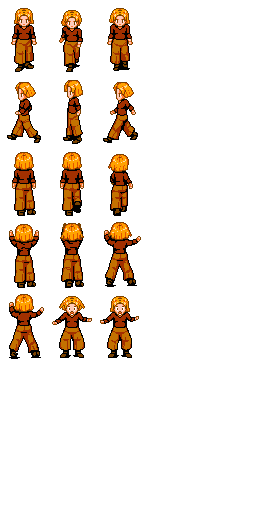
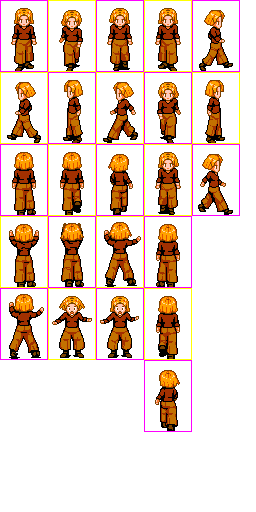
Add guide lines to image to debug math error in texture UV calculation

Changed region(s): [[0.0, 0.0, 0.9375, 0.8438]]

diff --git a/src/scripts/view/standee/standee-sprite-wrapper.ts b/src/scripts/view/standee/standee-sprite-wrapper.ts
@@ -11,7 +11,7 @@ import {
     standeeAnimationTextureBase}
 from './standee-animation-texture-base';
 
-const STANDARD_DELAY = 250; // TODO: Perhaps have some randomness combined with this?
+const STANDARD_DELAY = 200; // TODO: Perhaps have some randomness combined with this?
 
 class StandeeAnimationFrame {
 
@@ -107,7 +107,7 @@ export class StandeeSpriteWrapper {
         this.group.add(this.sprite);
 
         // Initialize default animation to standing facing down:
-        this.currentAnimation = createStandDown();
+        this.currentAnimation = createWalkLeft();
     }
 
     start() {
@@ -126,7 +126,6 @@ export class StandeeSpriteWrapper {
         let frame = this.currentAnimation.getCurrentFrame();
 
         // Convert frame coordinates to texture coordinates and set the current one
-        // TODO: Use flipped flag
         let xpct = (frame.col * FRAME_WIDTH) / SPRITESHEET_WIDTH;
         let ypct = (((Math.floor(SPRITESHEET_HEIGHT / FRAME_HEIGHT)) - 1 - frame.row) * FRAME_HEIGHT) / SPRITESHEET_HEIGHT;
         this.textureWrapper.texture.offset.set(xpct, ypct);
@@ -188,9 +187,9 @@ function createStandUp(): StandeeAnimation {
 let walkUpFrame1        = new StandeeAnimationFrame(2, 0);
 let walkUpFrame2        = new StandeeAnimationFrame(2, 1);
 let walkUpFrame3        = new StandeeAnimationFrame(2, 2);
-let walkUpFrame4        = new StandeeAnimationFrame(2, 0, true);
-let walkUpFrame5        = new StandeeAnimationFrame(2, 1, true);
-let walkUpFrame6        = new StandeeAnimationFrame(2, 2, true);
+let walkUpFrame4        = new StandeeAnimationFrame(3, 3);
+let walkUpFrame5        = new StandeeAnimationFrame(4, 3);
+let walkUpFrame6        = new StandeeAnimationFrame(5, 3);
 
 function createWalkUp(): StandeeAnimation {
     let animation = new StandeeAnimation(StandeeAnimationType.WalkUp);
@@ -216,9 +215,9 @@ function createStandDown(): StandeeAnimation {
 let walkDownFrame1      = new StandeeAnimationFrame(0, 0);
 let walkDownFrame2      = new StandeeAnimationFrame(0, 1);
 let walkDownFrame3      = new StandeeAnimationFrame(0, 2);
-let walkDownFrame4      = new StandeeAnimationFrame(0, 0, true);
-let walkDownFrame5      = new StandeeAnimationFrame(0, 1, true);
-let walkDownFrame6      = new StandeeAnimationFrame(0, 2, true);
+let walkDownFrame4      = new StandeeAnimationFrame(0, 3);
+let walkDownFrame5      = new StandeeAnimationFrame(1, 3);
+let walkDownFrame6      = new StandeeAnimationFrame(2, 3);
 
 function createWalkDown(): StandeeAnimation {
     let animation = new StandeeAnimation(StandeeAnimationType.WalkDown);
@@ -256,7 +255,7 @@ function createWalkLeft(): StandeeAnimation {
 }
 
 // Standing Right
-let standRightFrame1    = new StandeeAnimationFrame(1, 1, true);
+let standRightFrame1    = new StandeeAnimationFrame(1, 4);
 
 function createStandRight(): StandeeAnimation {
     let animation = new StandeeAnimation(StandeeAnimationType.StandRight);
@@ -265,10 +264,10 @@ function createStandRight(): StandeeAnimation {
 }
 
 // Walking Right
-let walkRightFrame1     = new StandeeAnimationFrame(1, 1, true);
-let walkRightFrame2     = new StandeeAnimationFrame(1, 0, true);
-let walkRightFrame3     = new StandeeAnimationFrame(1, 1, true);
-let walkRightFrame4     = new StandeeAnimationFrame(1, 2, true);
+let walkRightFrame1     = new StandeeAnimationFrame(1, 4);
+let walkRightFrame2     = new StandeeAnimationFrame(2, 4);
+let walkRightFrame3     = new StandeeAnimationFrame(1, 4);
+let walkRightFrame4     = new StandeeAnimationFrame(0, 4);
 
 function createWalkRight(): StandeeAnimation {
     let animation = new StandeeAnimation(StandeeAnimationType.WalkRight);

diff --git a/src/scripts/view/standee/standee-animation-texture-base.ts b/src/scripts/view/standee/standee-animation-texture-base.ts
@@ -40,13 +40,6 @@ class StandeeAnimationTextureBase {
                 FRAME_HEIGHT / SPRITESHEET_HEIGHT
             );
 
-            // Set the default frame to the upper-left corner
-            // TODO: Necessary? Might remove this after animations get defined.
-            // this.texture.offset.set(
-            //     (0 * (SPRITESHEET_WIDTH  - FRAME_WIDTH )) / SPRITESHEET_WIDTH,
-            //     (1 * (SPRITESHEET_HEIGHT - FRAME_HEIGHT)) / SPRITESHEET_HEIGHT
-            // );
-
             callback();
         });
     }

diff --git a/src/scripts/view/view.ts b/src/scripts/view/view.ts
@@ -78,7 +78,8 @@ class View {
         this.scene.add(new THREE.AmbientLight(0x404040));
 
         this.camera.position.set(-3, 0.75, 15); // A little higher than eye-level with the NPCs.
-        this.camera.lookAt(new THREE.Vector3(4, 9, 0));
+        this.camera.lookAt(new THREE.Vector3(4, 5, 0));
+        // this.camera.lookAt(new THREE.Vector3(4, 9, 0));
 
         this.renderer.setSize( window.innerWidth, window.innerHeight );
         document.body.appendChild(this.renderer.domElement);
